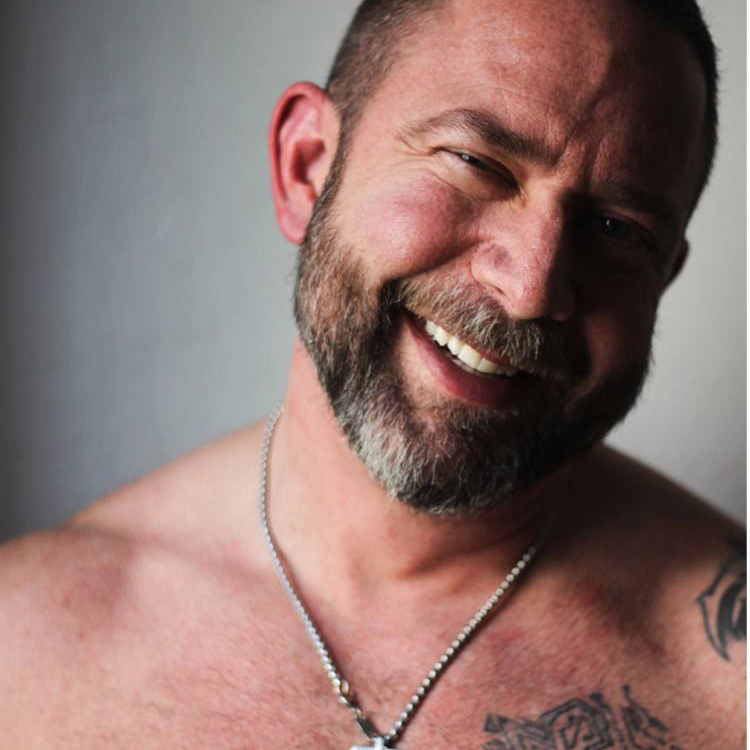
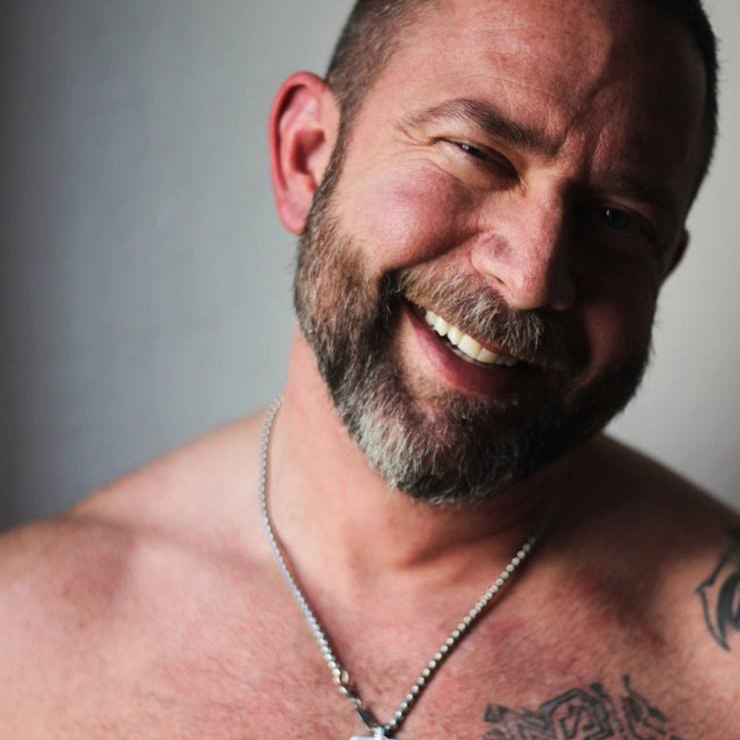
added tooltips

diff --git a/public/css/style.css b/public/css/style.css
@@ -409,9 +409,6 @@ img.profile-img {
   max-width: 100%;
   height: auto;
   margin-bottom: 30px;
-  box-shadow: 0 28px 16px -26px #000000;
-  -webkit-box-shadow: 0 28px 16px -26px #000000;
-  -moz-box-shadow: 0 28px 16px -26px #000000;
 }
 
 img.chat-img {

diff --git a/feature_list.md b/feature_list.md
@@ -11,7 +11,8 @@
 [ ] user cannot delete profile photo
 [ ] real time chat room that displays username of sender
 [ ] user can view his own chat history chronologically
-[ ] displays geolocation / distance away
+[ ] displays distance away
+[ ] sorts users by distance away
 [ ] responsive design
 [ ] change overview, looking_for, and interest to textareas
 [ ] add search by i_like, body_hair, position
